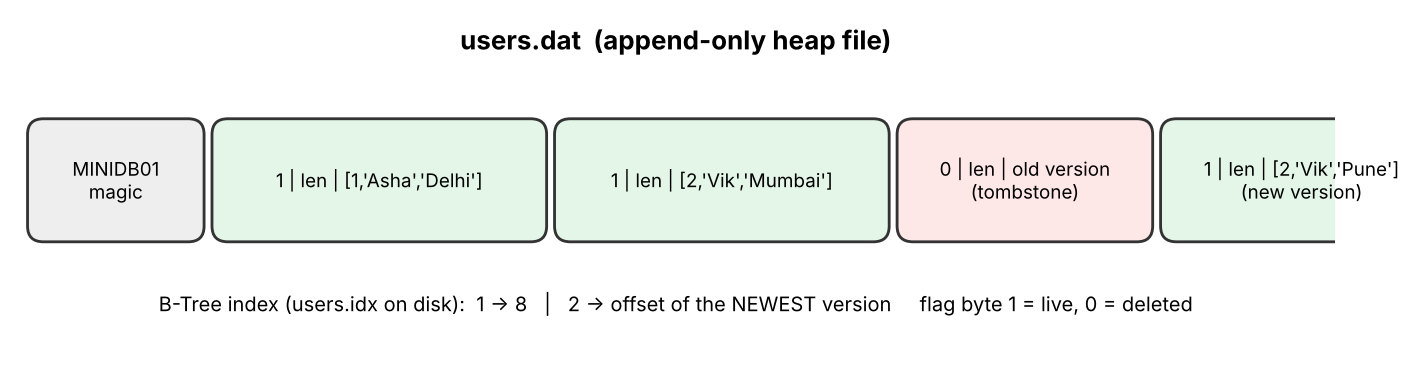
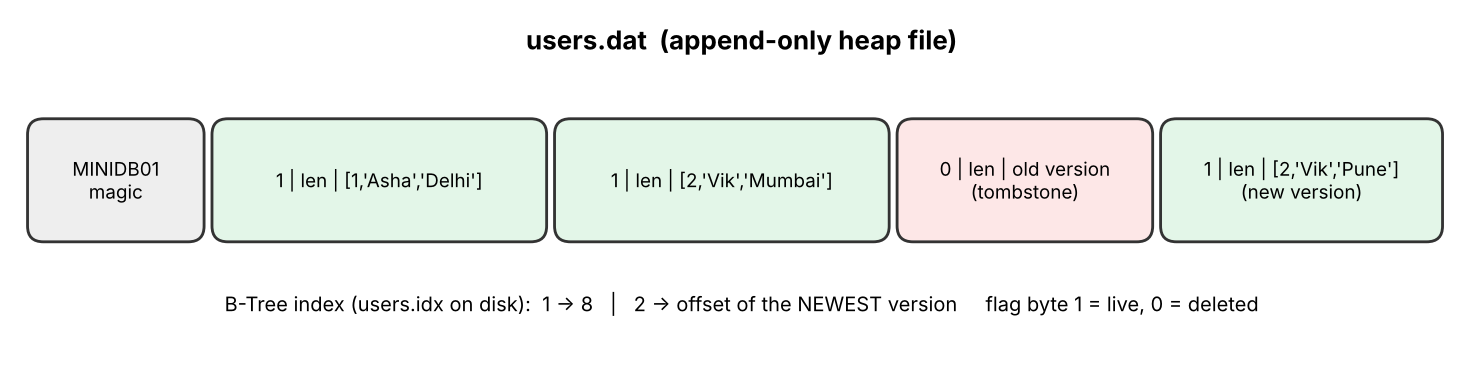
Fix clipped file-layout diagram
Claude-Session: https://claude.ai/code/session_017XuUSRE7xRWfpn3Cubg2vQ

diff --git a/docs/make_diagrams.py b/docs/make_diagrams.py
@@ -80,14 +80,14 @@ def btree_example():
 
 
 def file_layout():
-    fig, ax = canvas(10, 2.6)
-    ax.text(5, 2.35, "users.dat  (append-only heap file)", ha="center", fontsize=11, fontweight="bold")
+    fig, ax = canvas(11, 2.6)
+    ax.text(5.5, 2.35, "users.dat  (append-only heap file)", ha="center", fontsize=11, fontweight="bold")
     parts = [("MINIDB01\nmagic", "#EEEEEE", 1.4), ("1 | len | [1,'Asha','Delhi']", C["engine"], 2.6), ("1 | len | [2,'Vik','Mumbai']", C["engine"], 2.6),
              ("0 | len | old version\n(tombstone)", "#FDE7E7", 2.0), ("1 | len | [2,'Vik','Pune']\n(new version)", C["engine"], 2.2)]
     x = 0.1
     for t, c, w in parts:
         box(ax, x, 0.9, w - 0.1, 0.9, t, c, 8); x += w
-    ax.text(5, 0.35, "B-Tree index (users.idx on disk):  1 -> 8   |   2 -> offset of the NEWEST version     flag byte 1 = live, 0 = deleted",
+    ax.text(5.5, 0.35, "B-Tree index (users.idx on disk):  1 -> 8   |   2 -> offset of the NEWEST version     flag byte 1 = live, 0 = deleted",
             ha="center", fontsize=8.5)
     fig.savefig(os.path.join(OUT, "file_layout.png"), dpi=170, bbox_inches="tight"); plt.close(fig)
 
